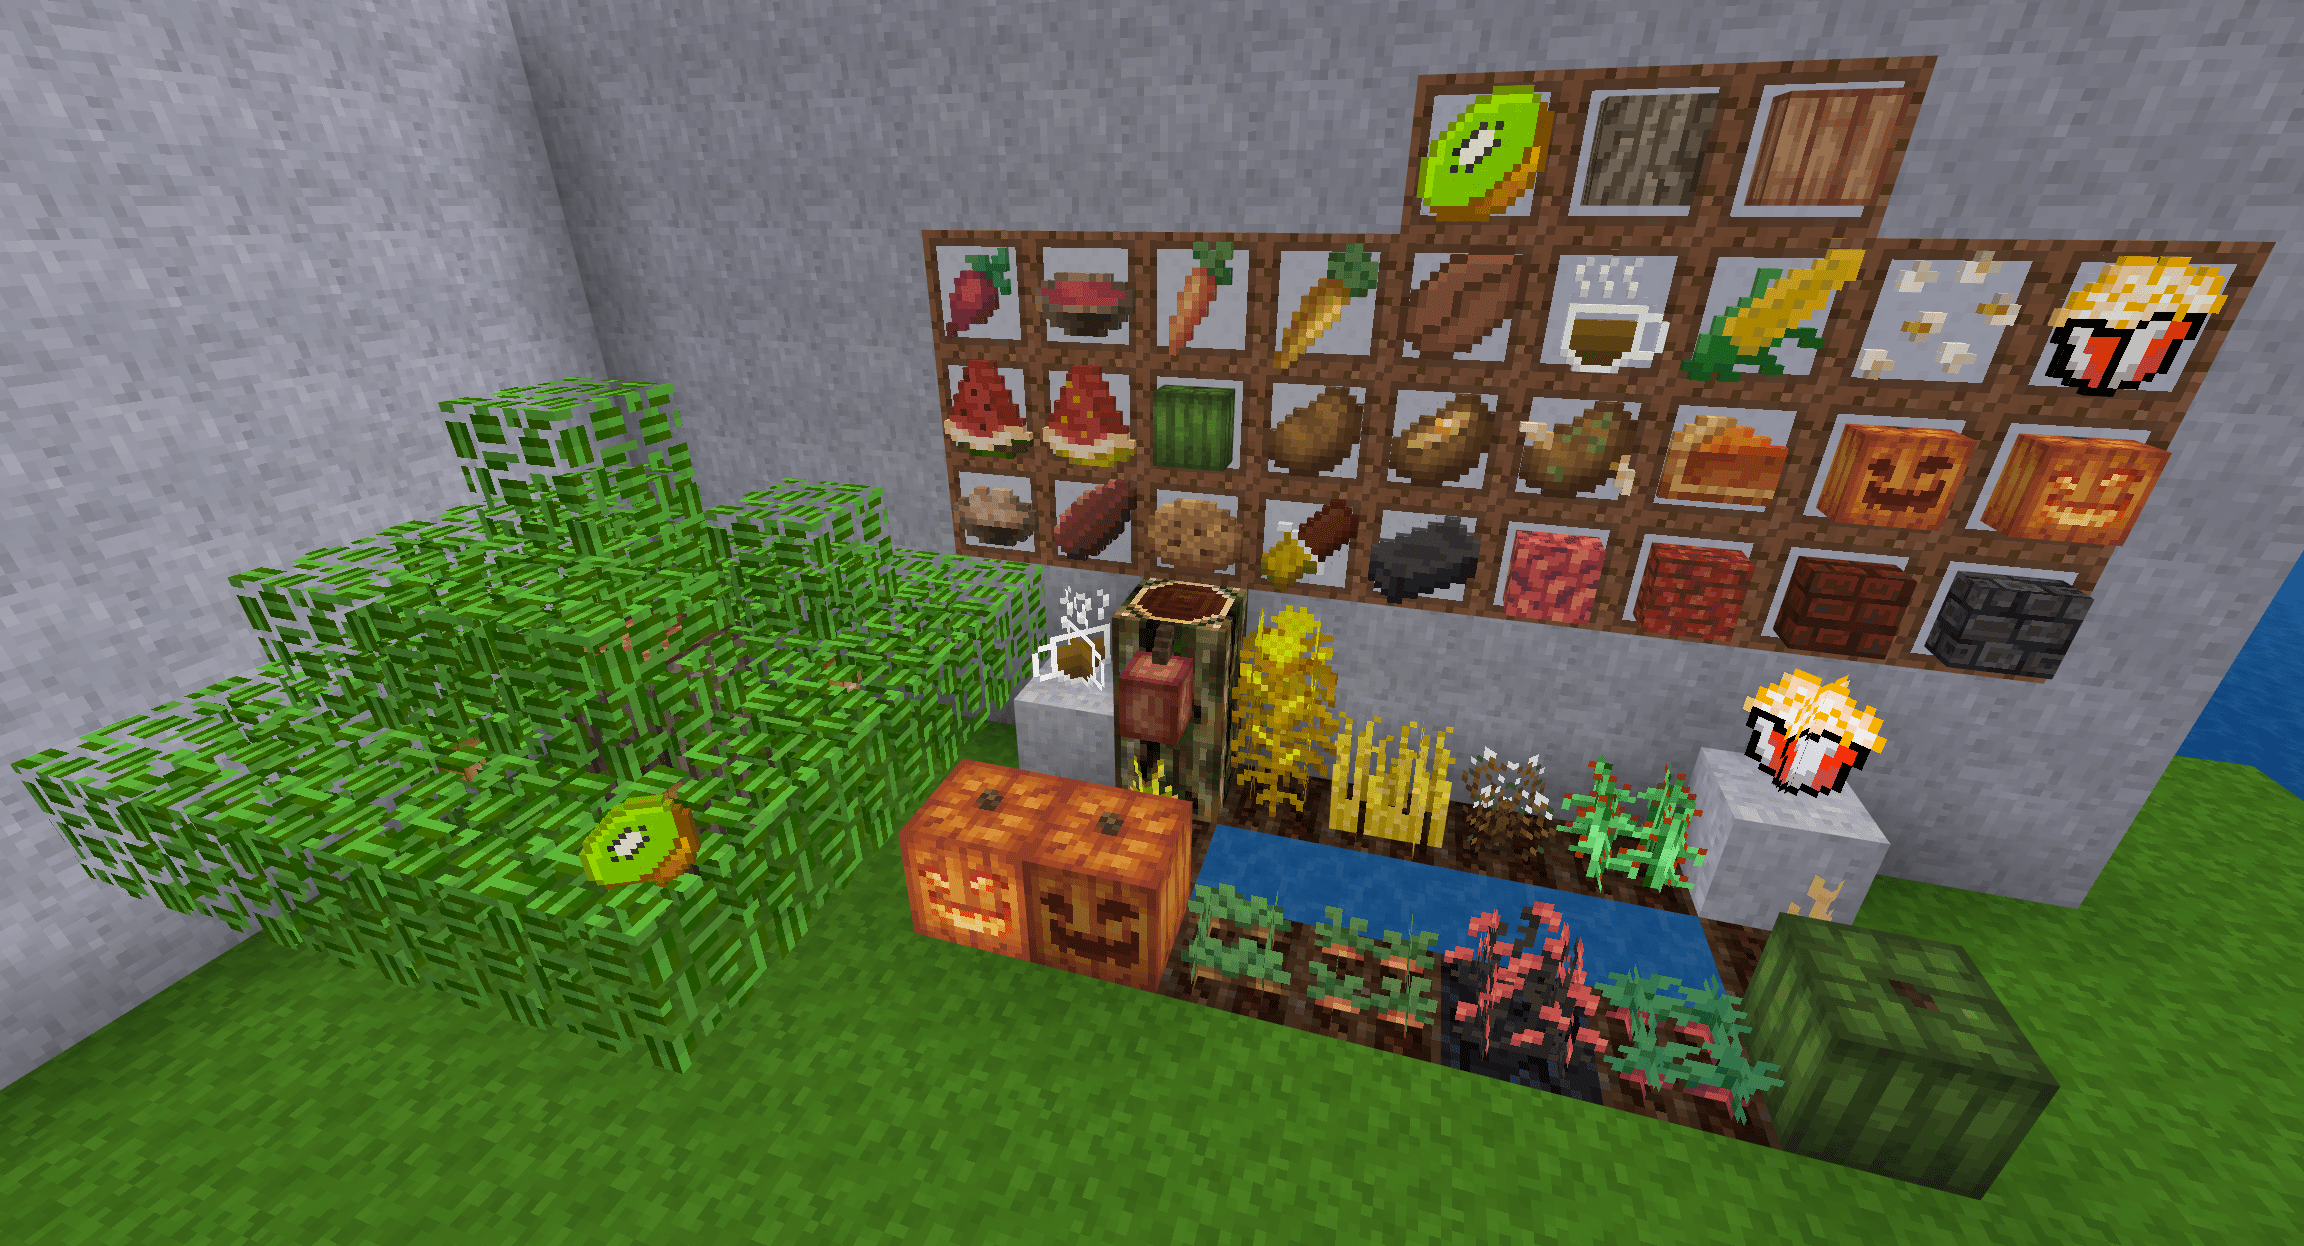
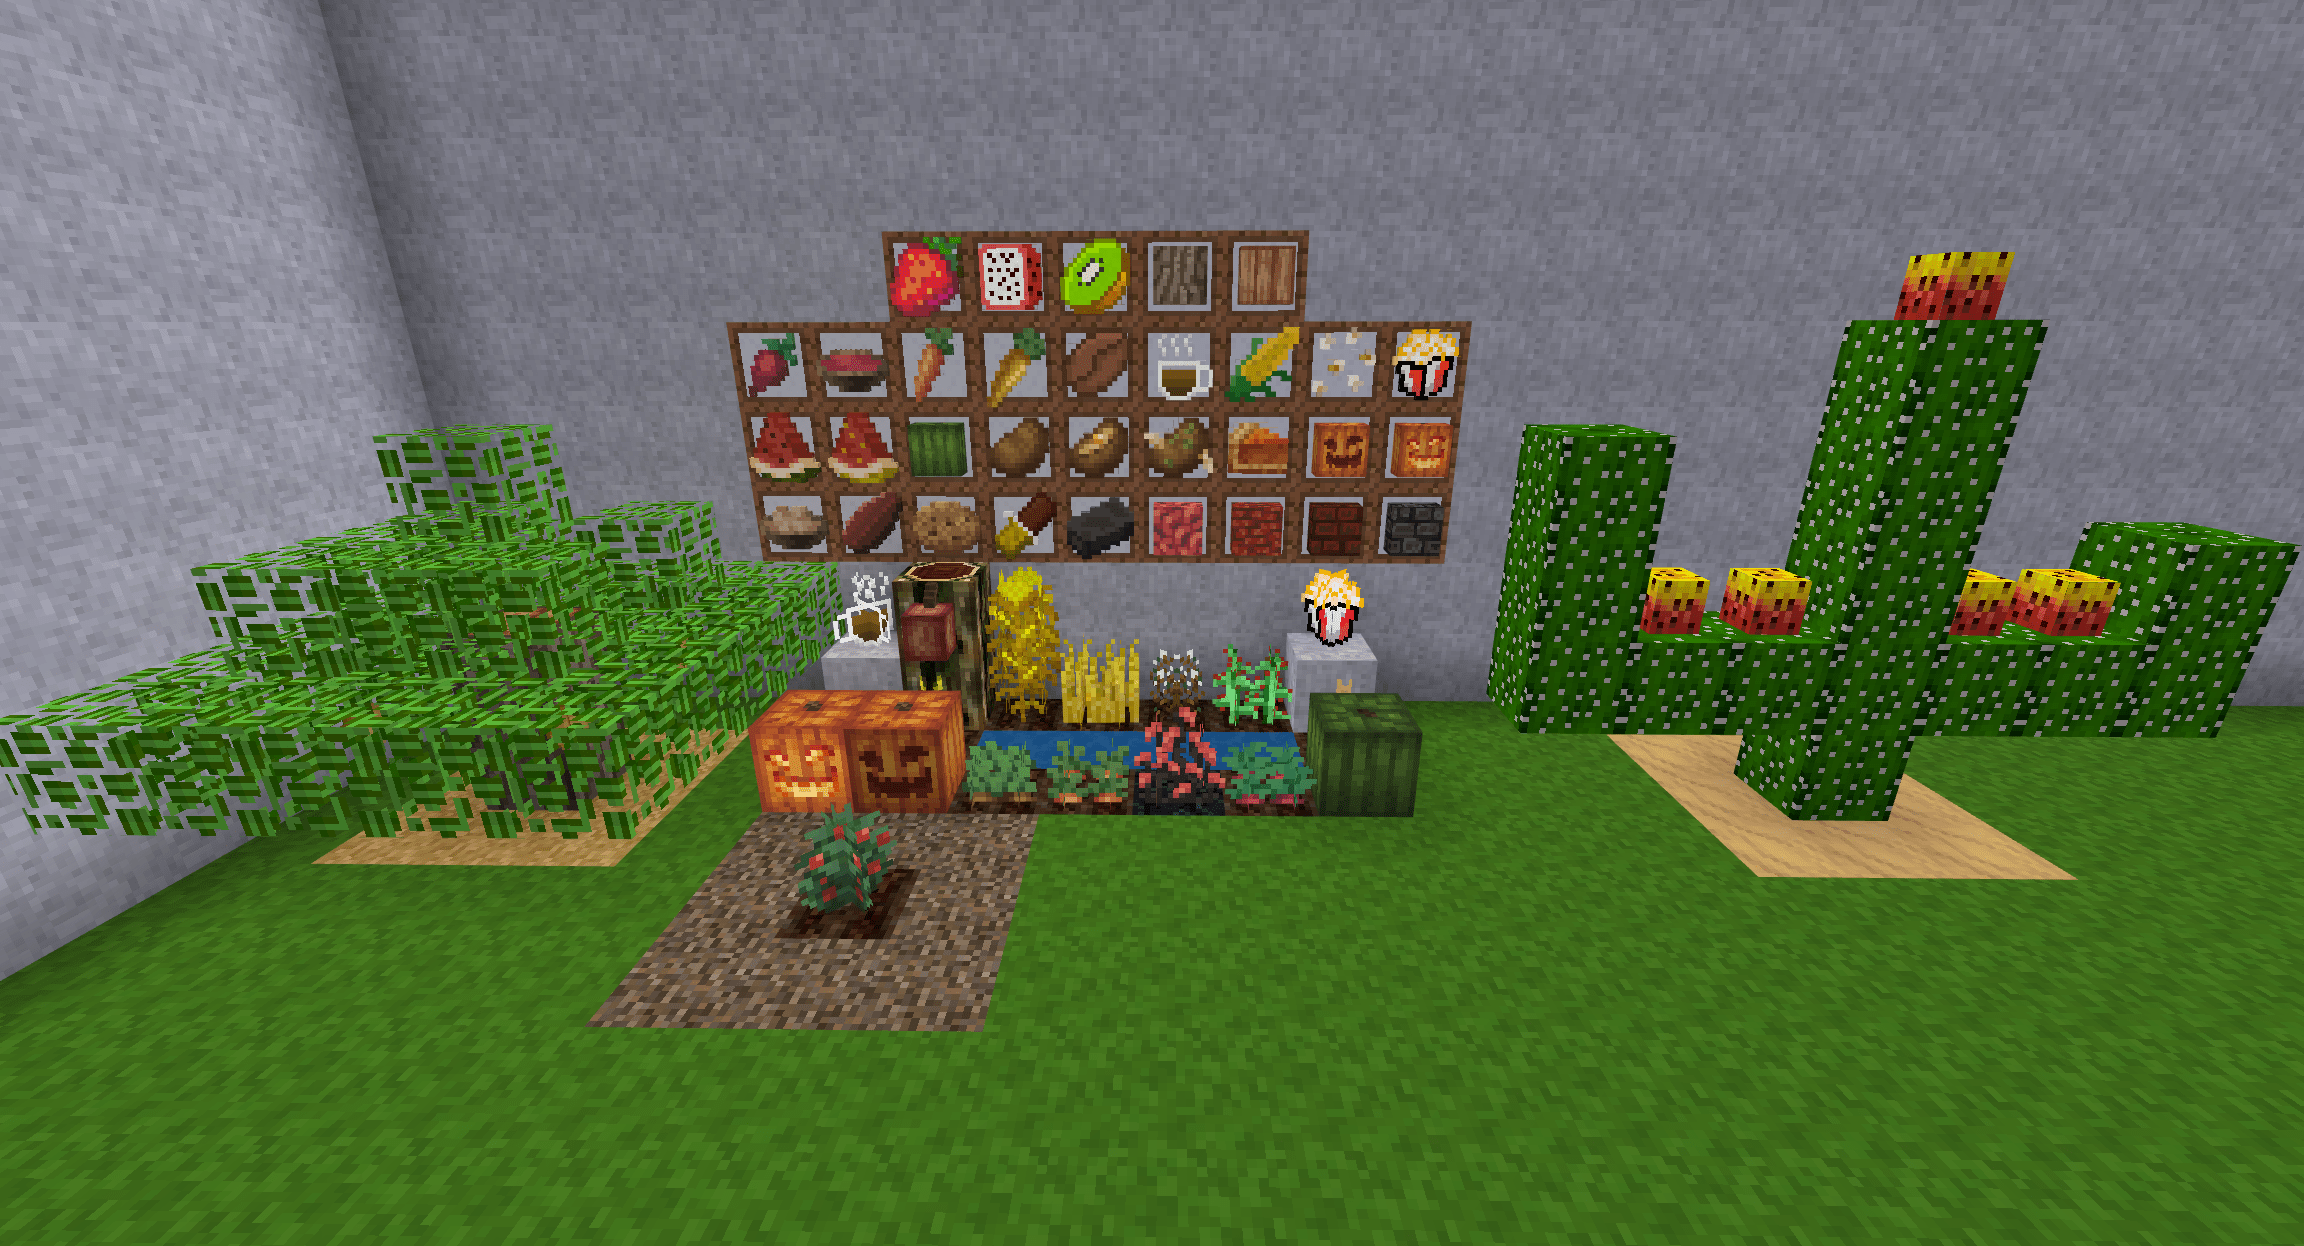
Add Large Cactus with Fruit and Strawberry

diff --git a/README.md b/README.md
@@ -165,7 +165,15 @@ Cocoa is planted on jungletree using cocoa bean and fully grown cocoa will drop 
 
 ### Kiwi Tree
 
-Kiwi tree can be found in savana and drops kiwi fruit and sapling from leaves. This tree adds new tree trunk and wood planks also (including stairs and slabs).
+Kiwi tree can be found in savana and drops kiwi fruit and sapling from leaves. This tree adds new tree trunk and wood planks also (including stairs and slabs). Kiwi fruit will grow back on the tree after harvested from the tree enabling farming Kiwis. Can be placed as a decoration.
+
+### Large Cactus with Fruit
+
+Cactus with Fruits can be found in desert. You will need axe to harvest the fruit. Fruit will grow back on cactus after harvested - enabling harvesting Dragon Fruits. Can be placed as a decoration. Seedling can be crafted for more farming and harvesting.
+
+### Strawberry
+
+Strawberries can be found in coniferous forest. They drop seeds and strawberries.
 
 ## Seeds
 
@@ -310,6 +318,10 @@ GNU Lesser General Public License v2.1 or later (see included LICENSE file)
 - x_farming_kiwi_tree.png
 - x_farming_kiwi_tree_top.png
 - x_farming_kiwi_tree_wood.png
+- x_farming_strawberry_1.png (modified by SaKeL)
+- x_farming_strawberry_2.png (modified by SaKeL)
+- x_farming_strawberry_3.png (modified by SaKeL)
+- x_farming_strawberry_4.png (modified by SaKeL)
 
 **LGPL-2.1-or-later, by SaKeL**
 
@@ -337,6 +349,15 @@ GNU Lesser General Public License v2.1 or later (see included LICENSE file)
 - x_farming_kiwi.png
 - x_farming_kiwi_fruit.png
 - x_farming_kiwi_sapling.png
+- x_farming_cactus_fruit_bottom.png
+- x_farming_cactus_fruit_sides.png
+- x_farming_cactus_fruit_top.png
+- x_farming_cactus_fruit_item.png
+- x_farming_large_cactus_with_fruit_seedling.png
+- x_farming_large_cactus_with_fruit_seedling
+- x_farming_strawberry_seed.png
+- x_farming_strawberry.png
+
 
 **MIT**
 - x_farming_kiwi_leaves.png
